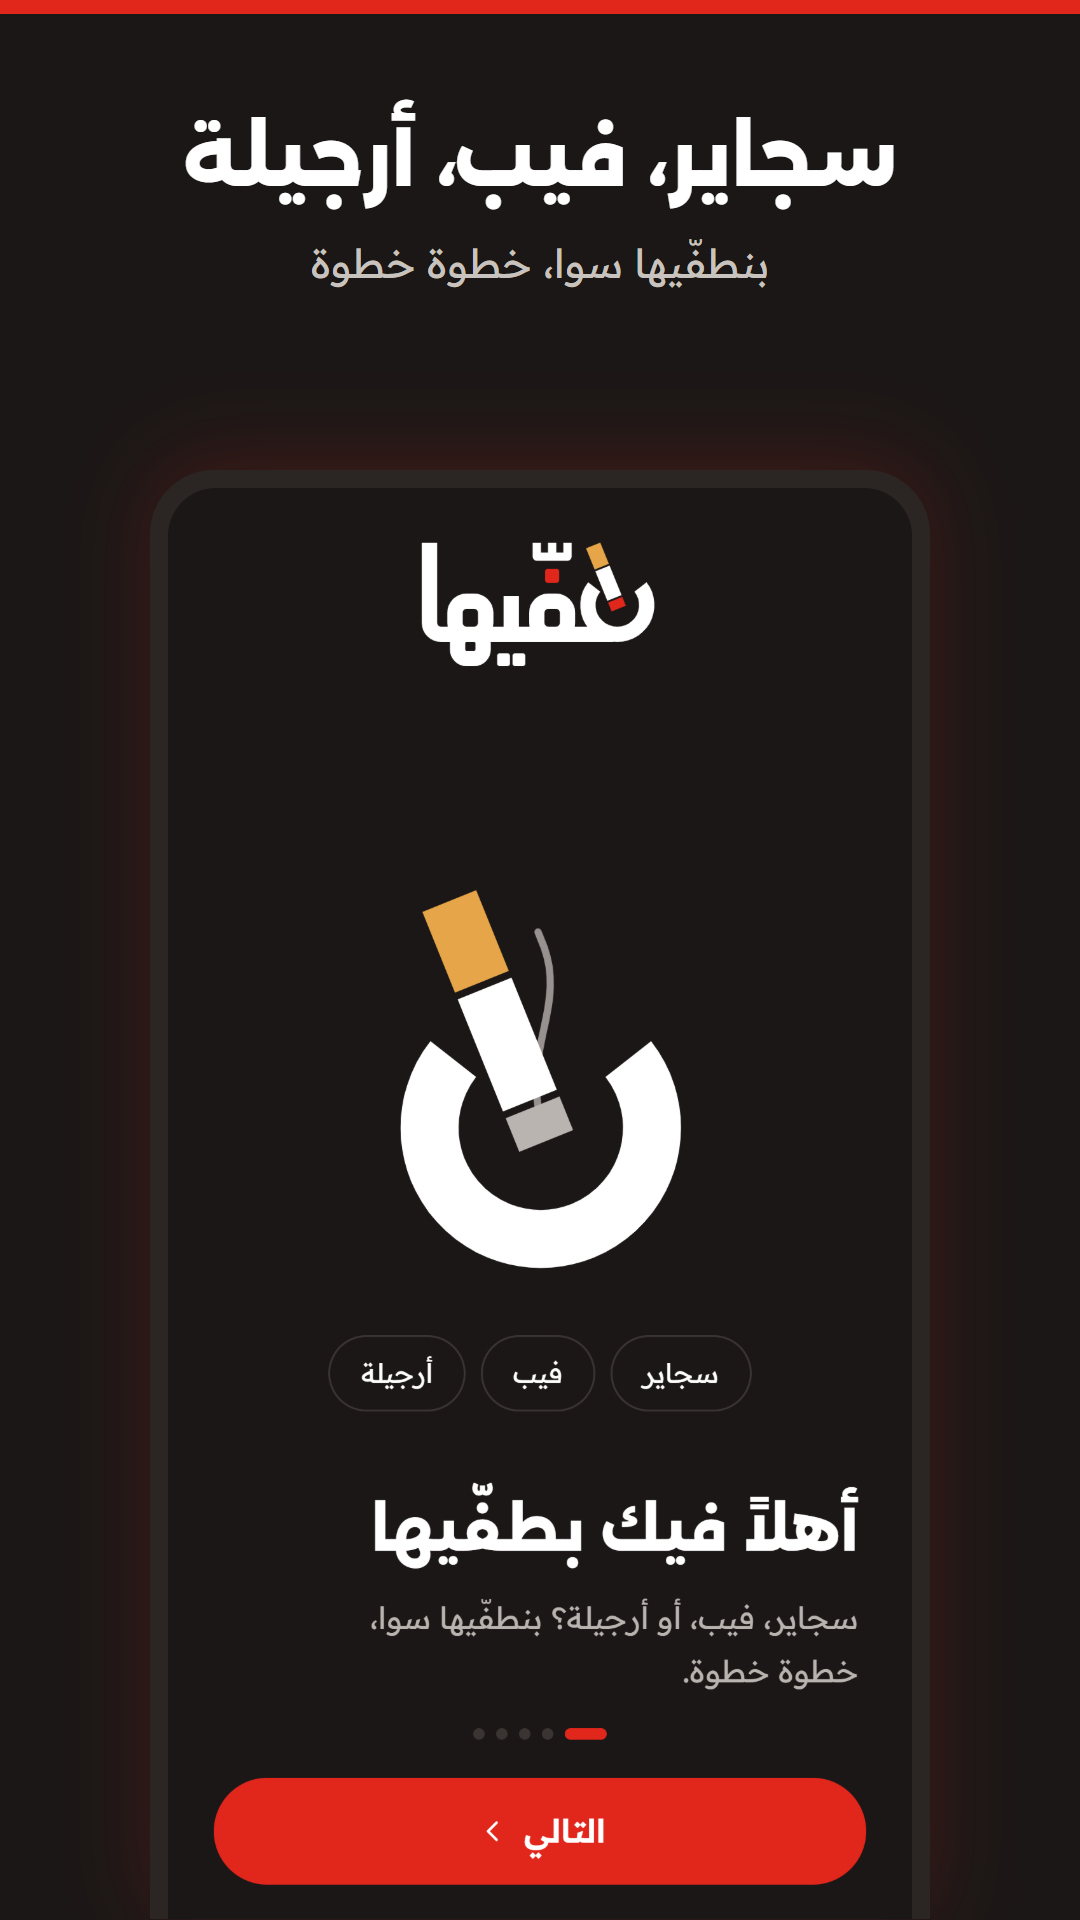
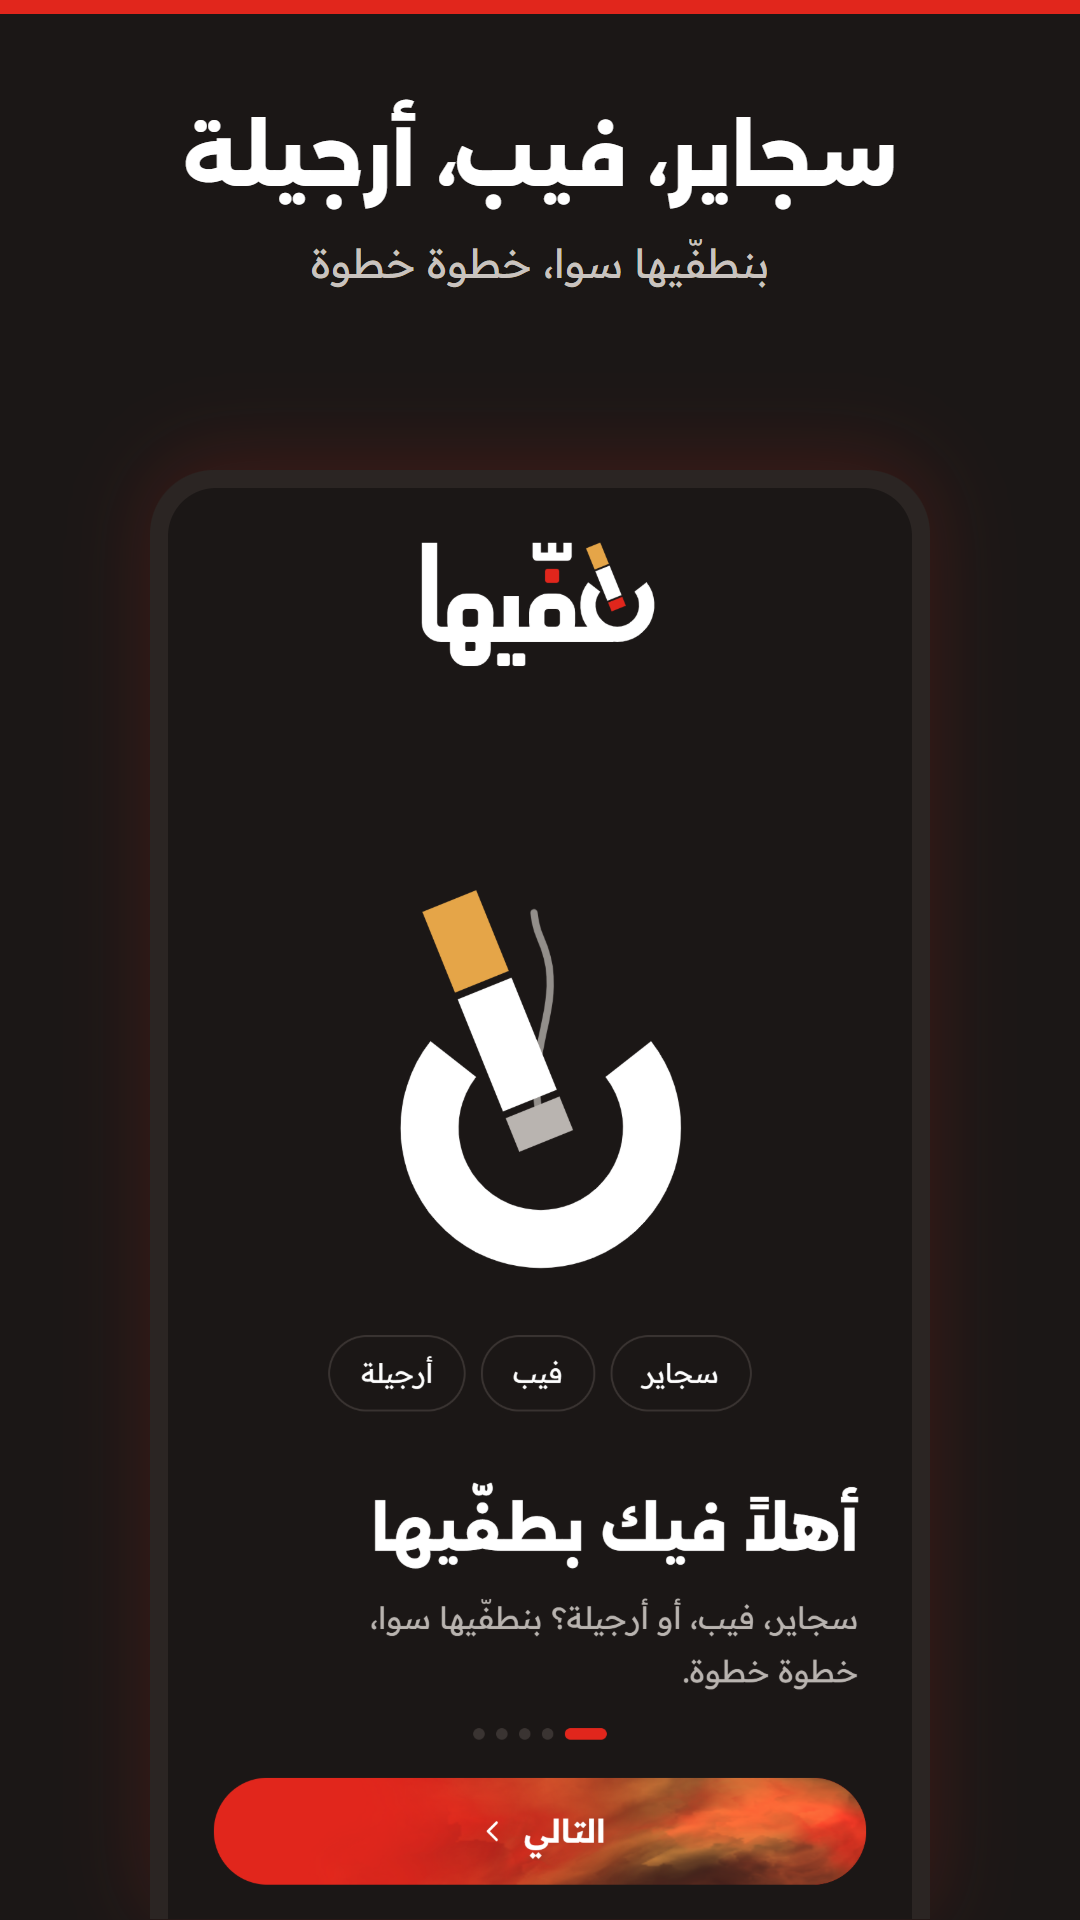
Smoke drifting through the main buttons
js/smoky.js adapts the «Smoky Button» shader to the brand colours and puts it
in the red buttons, the welcome button and «عندي رغبة». One small WebGL canvas
draws the smoke and each visible button copies it, so there's one GPU context
however many buttons a screen has; it pauses off screen and in the background,
holds a still frame with reduced motion, and leaves plain buttons without WebGL.
Store screenshots re-rendered with it.

Changed region(s): [[0.3972, 0.9062, 0.7944, 1.0]]

diff --git a/js/smoky.js b/js/smoky.js
@@ -1,0 +1,202 @@
+// طفّيها — smoke drifting through the main buttons (the red ones, the welcome button and «عندي رغبة»).
+// Adapted from the «Smoky Button» shader, in the brand colours.
+//
+// One small WebGL canvas draws the smoke; every visible button copies it into its own 2D canvas.
+// So there's a single GPU context however many buttons the screen has (browsers allow ~16), and
+// nothing runs while no smoky button is on screen or the app is in the background.
+// Reduced motion: one still frame. No WebGL: plain buttons.
+
+const HOSTS = '.btn-red, .intro-btn:not(.line), .sos-core';
+const W = 256, H = 80; // the smoke's own size; buttons stretch it
+const FPS = 30;
+const COLORS = [[0xE1, 0x26, 0x1C], [0xE5, 0xA5, 0x48], [0x1B, 0x17, 0x16]].map((c) => c.map((v) => v / 255));
+
+const VERTEX = `
+  attribute vec2 aPosition;
+  void main() { gl_Position = vec4(aPosition, 0.0, 1.0); }
+`;
+
+const FRAGMENT = `
+  precision mediump float;
+  uniform vec2 uResolution;
+  uniform float uTime;
+  uniform vec3 uPrimary;
+  uniform vec3 uSecondary;
+  uniform vec3 uShadow;
+
+  float random(vec2 p) { return fract(sin(dot(p, vec2(12.9898, 78.233))) * 43758.5453); }
+
+  float noise(vec2 p) {
+    vec2 i = floor(p), f = fract(p);
+    float a = random(i), b = random(i + vec2(1.0, 0.0)), c = random(i + vec2(0.0, 1.0)), d = random(i + vec2(1.0, 1.0));
+    vec2 u = f * f * (3.0 - 2.0 * f);
+    return mix(a, b, u.x) + (c - a) * u.y * (1.0 - u.x) + (d - b) * u.x * u.y;
+  }
+
+  float fbm(vec2 p) {
+    float v = 0.0, amp = 0.5;
+    mat2 rot = mat2(0.8776, 0.4794, -0.4794, 0.8776);
+    for (int i = 0; i < 6; i++) { v += amp * noise(p); p = rot * p * 2.04 + vec2(13.7, 9.2); amp *= 0.5; }
+    return v;
+  }
+
+  void main() {
+    vec2 uv = gl_FragCoord.xy / uResolution.xy;
+    vec2 pos = (gl_FragCoord.xy - 0.5 * uResolution.xy) / uResolution.y;
+    float t = uTime * 0.58;
+
+    vec2 silk = pos;
+    silk.y += 0.20 * sin(pos.x * 1.55 - t * 1.8) + 0.11 * sin(pos.x * 3.2 + t * 1.35);
+    silk.x += 0.06 * sin(pos.y * 4.2 - t * 1.1);
+    vec2 warp = vec2(fbm(silk * 1.15 + vec2(t * 0.28, -t * 0.17)), fbm(silk * 1.05 + vec2(4.8, 1.3) - vec2(t * 0.18, t * 0.22)));
+    vec2 cur = silk + (warp - 0.5) * 0.82;
+    float body = fbm(cur * 1.35 + vec2(-t * 0.24, t * 0.14));
+    float detail = fbm(cur * 2.7 + vec2(t * 0.31, -t * 0.27));
+    float p1 = fbm(cur * 1.20 + vec2(-t * 0.38, t * 0.18));
+    float p2 = fbm(cur * 1.10 + vec2(t * 0.26, -t * 0.32) + vec2(7.2, 3.6));
+    float p3 = fbm(cur * 1.45 + vec2(-t * 0.18, t * 0.42) + vec2(2.4, 8.1));
+
+    float flow = cur.y * 6.8 + cur.x * 1.35 + (warp.x - warp.y) * 5.2;
+    float cross = cur.y * 5.4 - cur.x * 2.1 + (warp.x + warp.y) * 3.5;
+    float r1 = smoothstep(0.08, 0.92, 0.5 + 0.5 * sin(flow - t * 2.75));
+    float r2 = smoothstep(0.08, 0.92, 0.5 + 0.5 * sin(cross + t * 2.35 + 2.1));
+    float r3 = smoothstep(0.12, 0.88, 0.5 + 0.5 * sin(flow * 0.78 - cross * 0.22 - t * 3.25 + 4.2));
+
+    float w1 = smoothstep(0.27, 0.76, p1 + 0.24 * body) * (0.20 + 1.08 * r1);
+    float w2 = smoothstep(0.26, 0.74, p2 + 0.22 * body) * (0.22 + 1.04 * r2 + 0.12 * detail);
+    float w3 = 0.16 + smoothstep(0.32, 0.80, p3 + 0.14 * body) * (0.22 + 0.86 * r3);
+    vec3 color = (uPrimary * w1 + uSecondary * w2 + uShadow * w3) / max(w1 + w2 + w3, 0.001);
+
+    float depth = smoothstep(0.15, 0.88, body * 0.78 + detail * 0.30);
+    color *= 0.65 + depth * 0.62;
+    color = mix(color, uShadow, smoothstep(0.46, 0.80, p3 + 0.10 * body + 0.16 * r3) * (0.12 + 0.42 * r3));
+    float sheen = pow(0.5 + 0.5 * sin(flow * 1.22 - t * 3.2 + detail * 2.0), 6.0);
+    color += mix(uSecondary, uPrimary, r1) * sheen * (0.10 + 0.16 * depth);
+
+    // thick at the start of the button (right, in Arabic), thinning into the button's own red
+    float feather = uv.x + 0.12 * (body - 0.5) + 0.04 * sin(cur.y * 3.0 - t * 1.4);
+    float alpha = smoothstep(0.18, 0.78, feather) * 0.9;
+    gl_FragColor = vec4(clamp(color, 0.0, 1.0) * alpha, alpha);
+  }
+`;
+
+function compile(gl, type, src) {
+  const s = gl.createShader(type);
+  gl.shaderSource(s, src);
+  gl.compileShader(s);
+  if (!gl.getShaderParameter(s, gl.COMPILE_STATUS)) throw new Error(gl.getShaderInfoLog(s) || 'shader');
+  return s;
+}
+
+function renderer() {
+  const canvas = document.createElement('canvas');
+  canvas.width = W; canvas.height = H;
+  const gl = canvas.getContext('webgl', { alpha: true, antialias: false, premultipliedAlpha: true, preserveDrawingBuffer: true });
+  if (!gl) return null;
+  const prog = gl.createProgram();
+  gl.attachShader(prog, compile(gl, gl.VERTEX_SHADER, VERTEX));
+  gl.attachShader(prog, compile(gl, gl.FRAGMENT_SHADER, FRAGMENT));
+  gl.linkProgram(prog);
+  if (!gl.getProgramParameter(prog, gl.LINK_STATUS)) throw new Error(gl.getProgramInfoLog(prog) || 'program');
+  gl.useProgram(prog);
+  gl.bindBuffer(gl.ARRAY_BUFFER, gl.createBuffer());
+  gl.bufferData(gl.ARRAY_BUFFER, new Float32Array([-1, -1, 3, -1, -1, 3]), gl.STATIC_DRAW);
+  const at = gl.getAttribLocation(prog, 'aPosition');
+  gl.enableVertexAttribArray(at);
+  gl.vertexAttribPointer(at, 2, gl.FLOAT, false, 0, 0);
+  const u = (n) => gl.getUniformLocation(prog, n);
+  gl.viewport(0, 0, W, H);
+  gl.uniform2f(u('uResolution'), W, H);
+  gl.uniform3f(u('uPrimary'), ...COLORS[0]);
+  gl.uniform3f(u('uSecondary'), ...COLORS[1]);
+  gl.uniform3f(u('uShadow'), ...COLORS[2]);
+  const time = u('uTime');
+  return {
+    canvas,
+    draw(seconds) {
+      gl.uniform1f(time, seconds);
+      gl.clearColor(0, 0, 0, 0);
+      gl.clear(gl.COLOR_BUFFER_BIT);
+      gl.drawArrays(gl.TRIANGLES, 0, 3);
+    },
+  };
+}
+
+let smoke = null;
+const visible = new Set();
+const seen = new WeakSet();
+let frame = 0, last = 0;
+const started = performance.now();
+const still = matchMedia('(prefers-reduced-motion: reduce)');
+
+// copies the current smoke into one button, sized to it
+function paint(host) {
+  const c = host.querySelector(':scope > canvas.smoky');
+  if (!c) return;
+  const ratio = Math.min(devicePixelRatio || 1, 2);
+  const w = Math.max(1, Math.round(c.clientWidth * ratio)), h = Math.max(1, Math.round(c.clientHeight * ratio));
+  if (c.width !== w || c.height !== h) { c.width = w; c.height = h; }
+  const ctx = c.getContext('2d');
+  ctx.clearRect(0, 0, w, h);
+  ctx.drawImage(smoke.canvas, 0, 0, w, h);
+}
+
+function tick(now) {
+  frame = 0;
+  if (document.hidden || !visible.size) return;
+  if (now - last >= 1000 / FPS) {
+    last = now;
+    smoke.draw((now - started) / 1000);
+    for (const host of visible) host.isConnected ? paint(host) : visible.delete(host);
+  }
+  frame = requestAnimationFrame(tick);
+}
+
+function run() {
+  if (still.matches) {
+    smoke.draw(7.3); // a nice still frame
+    visible.forEach(paint);
+  } else if (!frame && visible.size && !document.hidden) frame = requestAnimationFrame(tick);
+}
+
+const watch = new IntersectionObserver((entries) => {
+  for (const e of entries) e.isIntersecting ? visible.add(e.target) : visible.delete(e.target);
+  run();
+});
+
+function addCanvas(host) {
+  const c = document.createElement('canvas');
+  c.className = 'smoky';
+  c.setAttribute('aria-hidden', 'true');
+  host.classList.add('smoky-host');
+  host.prepend(c);
+}
+
+function adopt(root) {
+  const found = root.matches?.(HOSTS) ? [root] : [];
+  if (root.querySelectorAll) found.push(...root.querySelectorAll(HOSTS));
+  for (const host of found) {
+    if (seen.has(host)) continue;
+    seen.add(host);
+    addCanvas(host);
+    watch.observe(host);
+  }
+}
+
+try { smoke = renderer(); } catch { smoke = null; }
+if (smoke) {
+  adopt(document.body);
+  new MutationObserver((list) => {
+    for (const m of list) {
+      for (const n of m.addedNodes) if (n.nodeType === 1) adopt(n);
+      // a label set with textContent wipes the canvas out of its button: put it back
+      const host = m.target;
+      if (host.classList?.contains('smoky-host') && !host.querySelector(':scope > canvas.smoky')) {
+        addCanvas(host);
+        if (visible.has(host)) run();
+      }
+    }
+  }).observe(document.body, { childList: true, subtree: true });
+  document.addEventListener('visibilitychange', run);
+  still.addEventListener?.('change', run);
+}

diff --git a/sw.js b/sw.js
@@ -1,10 +1,10 @@
 // طفّيها — offline support. App files (fonts included): network first, cache as fallback.
-const CACHE = 'tafiha-v25';
+const CACHE = 'tafiha-v26';
 const SHELL = [
   './', './index.html', './css/fonts.css', './css/app.css', './css/onboarding.css', './manifest.webmanifest',
   './assets/fonts/alexandria-arabic.woff2', './assets/fonts/alexandria-latin-ext.woff2', './assets/fonts/alexandria-latin.woff2', './assets/fonts/big-shoulders-display-latin-ext.woff2', './assets/fonts/big-shoulders-display-latin.woff2', './assets/fonts/readex-pro-arabic.woff2', './assets/fonts/readex-pro-latin-ext.woff2', './assets/fonts/readex-pro-latin.woff2',
   './js/account.js', './js/captcha.js', './js/content.js', './js/onboarding.js', './js/notify.js', './js/sb.js', './js/validate.js', './js/security.js', './js/vendor/supabase.js', './js/vendor/html2canvas.js', './js/vendor/jspdf.js',
-  './js/app.js', './js/store.js', './js/craving.js', './js/share.js', './js/cigarette.js', './js/smoke.js', './js/assessment.js', './js/plan.js', './js/report.js', './js/merge.js', './js/sync.js', './js/config.js',
+  './js/app.js', './js/store.js', './js/craving.js', './js/share.js', './js/cigarette.js', './js/smoke.js', './js/smoky.js', './js/assessment.js', './js/plan.js', './js/report.js', './js/merge.js', './js/sync.js', './js/config.js',
   './assets/cig-body.webp', './assets/cig-tip-out.webp', './assets/cig-tip-idle.webp', './assets/cig-tip-hot.webp',
   './assets/hero-vape.webp', './assets/icons/coins.webp', './assets/icons/pack.webp', './assets/icons/drop.webp', './assets/icons/heart.webp', './assets/icons/shield.webp', './assets/icons/gum.webp', './assets/icons/patch.webp', './assets/icons/target.webp',
   './assets/brand/tafiha-logo-transparent-dark.svg', './assets/brand/tafiha-logo-transparent-light.svg', './assets/brand/tafiha-icon-rounded.svg', './assets/brand/tafiha-mark-transparent-light.svg', './assets/brand/favicon.svg',

diff --git a/css/app.css b/css/app.css
@@ -1076,3 +1076,7 @@ a.btn { text-decoration: none; }
 
 /* iPhone Safari zooms into any field whose text is under 16px; nothing unstyled may fall below it */
 input, select, textarea { font-size: max(16px, 1em); }
+
+/* smoke inside the main buttons (js/smoky.js): the canvas sits between the button's colour and its label */
+.smoky-host { position: relative; overflow: hidden; isolation: isolate; }
+.smoky { position: absolute; inset: 0; width: 100%; height: 100%; z-index: -1; pointer-events: none; border-radius: inherit; }

diff --git a/js/app.js b/js/app.js
@@ -1,4 +1,5 @@
 // طفّيها — dashboard
+import './smoky.js';
 import * as S from './store.js';
 import { initCraving, openCraving } from './craving.js';
 import { makeStory } from './share.js';
